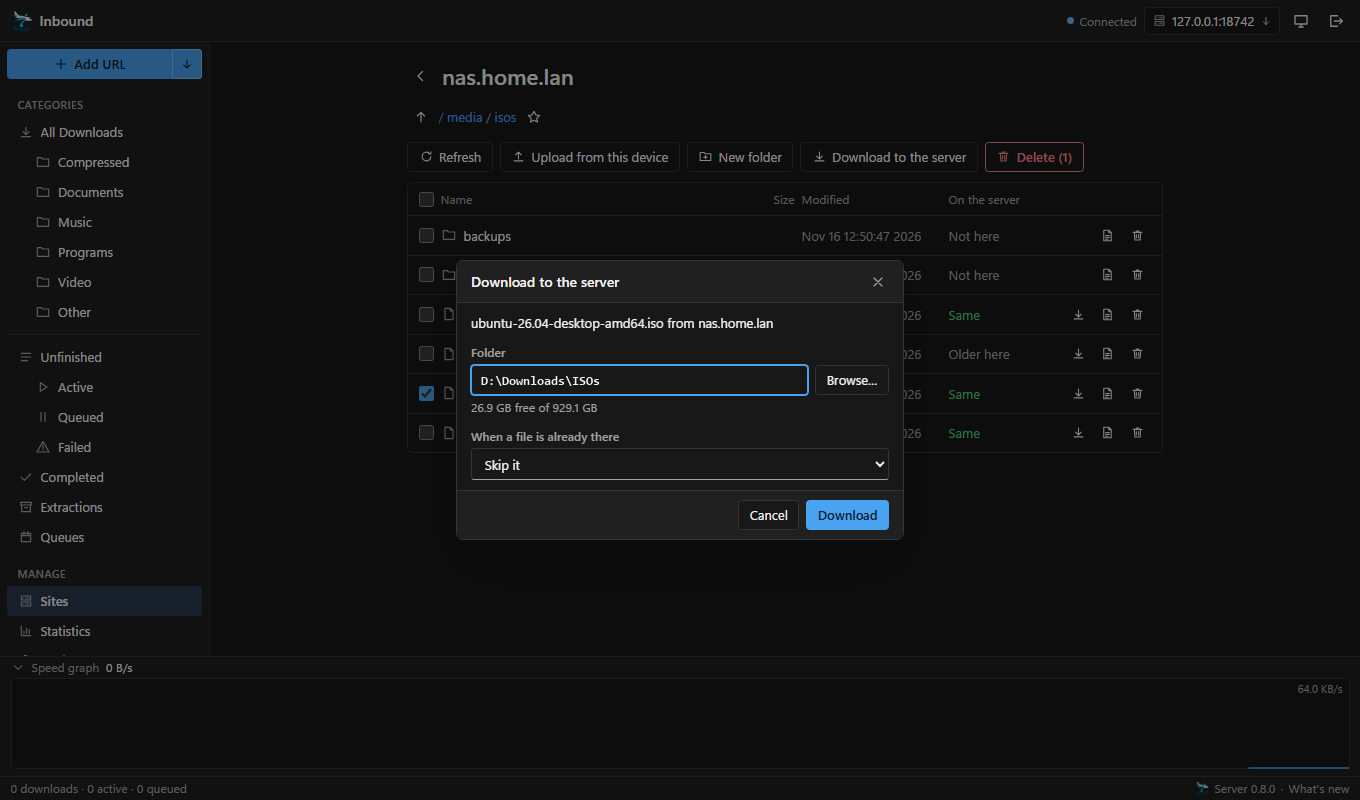
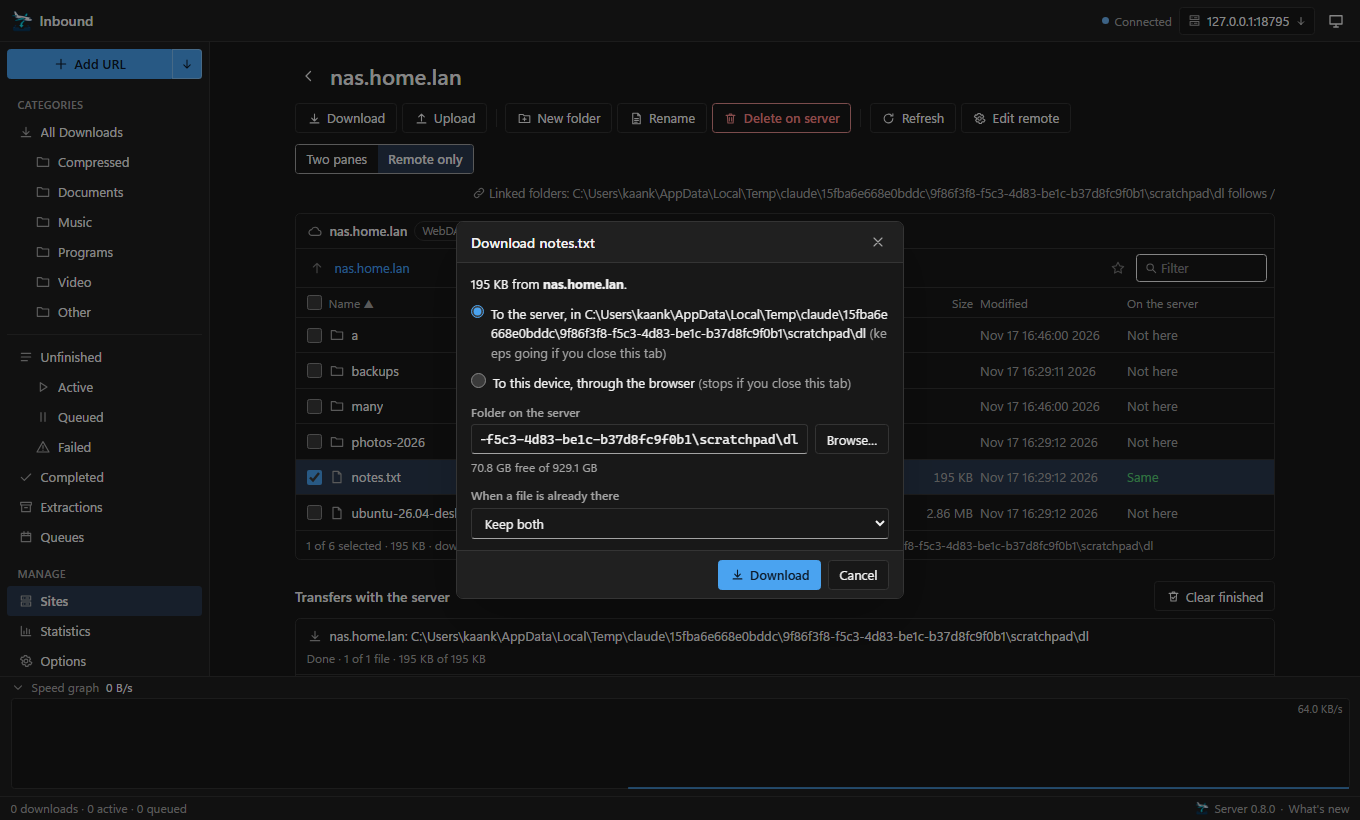
Sites rework: record R6a and the R5 plan with permanent delete on This PC (SITES.11)

diff --git a/ROADMAP.md b/ROADMAP.md
@@ -632,7 +632,7 @@ performance plans set for the Sites phases.
 | SITES.8 | CLI `dm sites` | done on Windows (2026-11-15, PROGRESS R): on/off/status, add, remove, test, trust, sign-in, ls, mkdir, mv, rm, with get, put and the transfer commands from SITES.4; tested end to end against a real SFTP server. Not checked: sign-in with a real provider | SITES.5 | Not `dm site`, which already means site logins. |
 | SITES.9 | Third-party notices file, docs | done (2026-11-15, PROGRESS S): `THIRD-PARTY-NOTICES.md` shipped in Setup, the update zip, the AppImage and the image and linked from About; architecture, frontend guide, Docker docs and a release-notes draft. Not checked: the link in the running window | SITES.7 | Nothing of Sites in the extension (owner, 2026-11-15). |
 | SITES.10 | Follow-ups from the 0.8.0 audit (2026-11-15, PROGRESS AP) | open | SITES.9 | (1) A trusted certificate that can sign others (CA:TRUE or keyCertSign, as `openssl req -x509` and many NAS make them) vouches for every site's names, because rclone takes one `--ca-cert` file for all sites. Choices for the owner: warn in the trust dialog and keep it; refuse such certificates (breaks many home NAS setups); or run a site with its own certificate in an rclone of its own. (2) A user's own OAuth client secret is on `rclone authorize`'s command line for up to 10 minutes; pass it another way. (3) "Keep both" can make a duplicate when the Host is killed within 2 s of a file finishing (the done state is saved late). (4) A hung `operations/copyfile` answer fails the file for good and may leave the rclone job running. (5) A web edit of a site whose linked folder is outside the server's folders is refused; keep the folder unless it is changed. (6) A transfer stopped by a refused sign-in or an untrusted certificate carries no problem code, so the Transfers bar can't offer Sign in again or Trust as browsing does. (7) Five connection waits come to about 30 s; an outage of a minute or two still ends an unattended transfer. |
-| SITES.11 | Sites UI rework to the agreed mockup (owner, 2026-11-16, PROGRESS AR) | partial: R0 baseline done (2026-11-16); R1 Host additions built and tested (per-file progress, time left, row fields, stop/start one file, reach, last used, open an address once, no-folder downloads by category rules; PROGRESS 2026-11-16); folder "Some of it" (`sites.here`) and the web-saved SFTP rule built 2026-11-17; R2a (desktop panes) and R2b (toolbar, Remote menu, context menus, no-dialog downloads) built 2026-11-17, pairs in `docs/plans/sites-mockups/compare/`; R2c (drag and drop) built 2026-11-17; R2 done except the owner's look; R3 (transfers list) built 2026-11-17, Fable-reviewed, pairs in `compare/`; R4 (All remotes, Add a remote, sidebar, `sites.testDraft`) built 2026-11-17; R5 to R7 not started: `docs/plans/sites-rework.md` | SITES.9 | The owner found the 0.8.0 Sites UI unfinished in the window and the web UI: no file context menu, double click does nothing on a file, a transfers list unlike the rest of the app with nothing to do on a finished file, web downloads going to the browser, Drive not listing in the web UI. The backend stays. Every screen is built against `docs/plans/sites-mockups/4-agreed-design.html` and compared with it side by side before it counts as done. |
+| SITES.11 | Sites UI rework to the agreed mockup (owner, 2026-11-16, PROGRESS AR) | partial: R0 baseline done (2026-11-16); R1 Host additions built and tested (per-file progress, time left, row fields, stop/start one file, reach, last used, open an address once, no-folder downloads by category rules; PROGRESS 2026-11-16); folder "Some of it" (`sites.here`) and the web-saved SFTP rule built 2026-11-17; R2a (desktop panes) and R2b (toolbar, Remote menu, context menus, no-dialog downloads) built 2026-11-17, pairs in `docs/plans/sites-mockups/compare/`; R2c (drag and drop) built 2026-11-17; R2 done except the owner's look; R3 (transfers list) built 2026-11-17, Fable-reviewed, pairs in `compare/`; R4 (All remotes, Add a remote, sidebar, `sites.testDraft`) built 2026-11-17; R5 (delete, overwrite, permanent delete on This PC: owner 2026-11-17) and R6a (web browse, both web bugs) done 2026-11-17 (Drive case unconfirmed); R6b and R7 not started: `docs/plans/sites-rework.md` | SITES.9 | The owner found the 0.8.0 Sites UI unfinished in the window and the web UI: no file context menu, double click does nothing on a file, a transfers list unlike the rest of the app with nothing to do on a finished file, web downloads going to the browser, Drive not listing in the web UI. The backend stays. Every screen is built against `docs/plans/sites-mockups/4-agreed-design.html` and compared with it side by side before it counts as done. |
 | SITES.12 | Rename "Sites" in everything people see (owner, 2026-11-17: "find a better name than sites btw, it's too similar to site logins") | requested 2026-11-17; name chosen by the owner: "Remote files" (one entry: "a remote"; menu "Remote", "Edit remote", "Add a remote", "All remotes"); R2b uses it for new text, the rest not started | SITES.11 | The feature's name clashes with "site logins" (per-site credentials). Change the visible words only: window (sidebar heading, menu, toolbar, Options page), web UI, CLI help and output, docs, release notes; `sites.*` IPC types, `dm sites`, class and file names stay (a `dm` alias may be added). Best done with the rework so new screens use the new word. |
 
 Renumbered on 2026-11-13: the earlier SITES.1 to SITES.6 (one item per protocol, SSH.NET for SFTP, WebDAV on the HTTP

diff --git a/docs/plans/sites-rework.md b/docs/plans/sites-rework.md
@@ -342,6 +342,35 @@ rework R4" for what is not as drawn.
 - Both dialogs compared and corrected. Local delete says Recycle Bin.
 - A full pass over every desktop pair with the owner's notes from R2 to R4.
 
+Written out 2026-11-17 (owner: "looks perfect ... write and start the next one"; no notes on R2 to R4):
+
+- **Delete on server** (`delete`): a warning icon and "Delete on server?"; the name in bold and what goes with it
+  ("**backups** and the 1,842 items inside it (86.4 GB) will be deleted from **nas.home.lan**.", a file: "**notes.txt**
+  (2 KB) will be deleted from **nas.home.lan**.", several: "**3 items** and the 1,842 items inside them …"); "Inbound
+  cannot bring them back. Nothing on this PC is touched."; when a folder is in it, a tick box "I understand that
+  1,842 items will be deleted" that the delete button waits for; buttons "Delete on server" (red outline, bin icon)
+  and Cancel (the default, accent). The count is the Host's existing `sites.count`; while it counts the line says
+  so, and a count that fails or is cut short says "at least …" and still needs the tick.
+- **Delete on This PC:** the same shape: "… will be moved to the Recycle Bin." A file that can't go to the Recycle
+  Bin (network share, too big) is never deleted outright without its own question.
+- **Delete permanently on This PC** (owner, 2026-11-17: "On This PC put a permanent delete option"): Shift+Delete
+  and a menu item "Delete permanently…" under Delete, as in Explorer. The dialog has the server's shape: title "Delete
+  permanently?", "… will be deleted from this PC for good. It does not go to the Recycle Bin and can't be brought
+  back.", the count and, when a folder is in it, the "I understand" tick; a red "Delete permanently" button; Cancel
+  the default. Only on Windows, like the Recycle Bin. A file that is in use is left and named after.
+- **Overwrite, one file at a time** (`overwrite`): replaces R2b's one question per batch when a picked file is
+  already there. Title with the direction icon: "notes.txt is newer on the server" / "… is older on the server" /
+  "… is already on the server" (same date, other size); rows "On this PC" and "On the server" with size and date,
+  "(newer)" on the newer one; choices Skip, keep the server copy / Replace the server copy with the older file /
+  Keep both, upload as notes (2).txt (the name the Host would give); the safer one marked "(recommended)": Skip
+  when the target is newer or the same, Replace when the target is older; "Do this for the other 3 files" when more
+  conflict; Cancel and Continue. Downloads use the same dialog with the words turned round ("on this PC").
+  A picked folder asks once for its contents ("Files inside the folders follow the same choice.").
+  Different choices are sent as one batch per choice (no Host change, so it works with another Inbound server too).
+- **Full pass:** every desktop pair (`browse`, `remote-only`, `trouble`, `transfers`, `failed`, `downloads`, `home`,
+  `add-tiles`, `add-fields`, `delete`, `overwrite`) retaken on the final R5 build at 1376 x 808 and cropped to the
+  mockup's 1360 x 800, looked at side by side; anything off is fixed in R5.
+
 ### R6. Web UI (`web-site`, `web-two`, `web-download`, `web-upload`, `phone`, `phone-sheets`)
 
 - The two bugs first (above), each with a test that fails before the fix.

diff --git a/PROGRESS.md b/PROGRESS.md
@@ -1,5 +1,30 @@
 # Progress — session handoff
 
+### Sites rework R6a: web browse view and both web bugs, SITES.11 (2026-11-17)
+
+- Owner: "start r6 on the side". Built (Sonnet) in a worktree, reviewed (Fable), fixed (Opus), walked in Chromium
+  against a real Server and rclone WebDAV (8 checks, no console errors), fast-forwarded into main.
+- **Bug 1 fixed:** Download, double click, Enter and the menu go to the server (`sites.transfer.start`); no row link.
+  "To this device" is the dialog's second choice (one file), through `startDeviceDownload`; a failed device download
+  fails in the browser and the page stays. Walked: zero browser downloads on double click/Enter.
+- **Bug 2, likely cause fixed:** rows were keyed by name (Drive allows two items of one name); now unique keys. The
+  real Drive case is **not confirmed** (no Drive account here).
+- Browse view to `web-site`/`web-two`: pane header and chip, Up, breadcrumbs, star, Filter, On the server column,
+  footer, trouble state with Retry now / Edit remote and auto-retry, context menu (right click, long press, "…",
+  Shift+F10), keys, toolbar, Download and Upload dialogs. One download target rule for every control.
+- **Not as drawn:** Two panes' left pane lists server folders only (files would need `folders.browse` to list files);
+  upload sends a server folder, not chosen files; no Rights column; folders show no "Some of it" yet; the page still
+  sits in the old layout (sidebar entries, Transfers bar, All remotes: R6b). Ctrl+U, Ctrl+Shift+C and Ctrl+Shift+N
+  are not taken from the browser.
+- Tests: webui 752 pass (34 Sites browse rules). Pairs: `web-site`, `web-two`, `web-download`, `web-upload`-built.
+- **R6b next:** transfers list, All remotes and Add a remote tiles, sidebar entries, Transfers bar, phone width,
+  `npm run screens` with the Sites screens, `sites.here` for folders, one run with the extension installed.
+
+### Owner request 2026-11-17: permanent delete on This PC
+
+- "On This PC put a permanent delete option." Added to R5 (sites-rework.md): Shift+Delete and "Delete permanently…",
+  with the server-style dialog (count, tick for folders). Goes into R5's fix round.
+
 ### Sites rework R4: All remotes, Add a remote, sidebar, SITES.11 (2026-11-17)
 
 - **Owner:** "start next, look perfect" (R3 accepted by look). Built (Sonnet), reviewed by Fable three times, fixed
